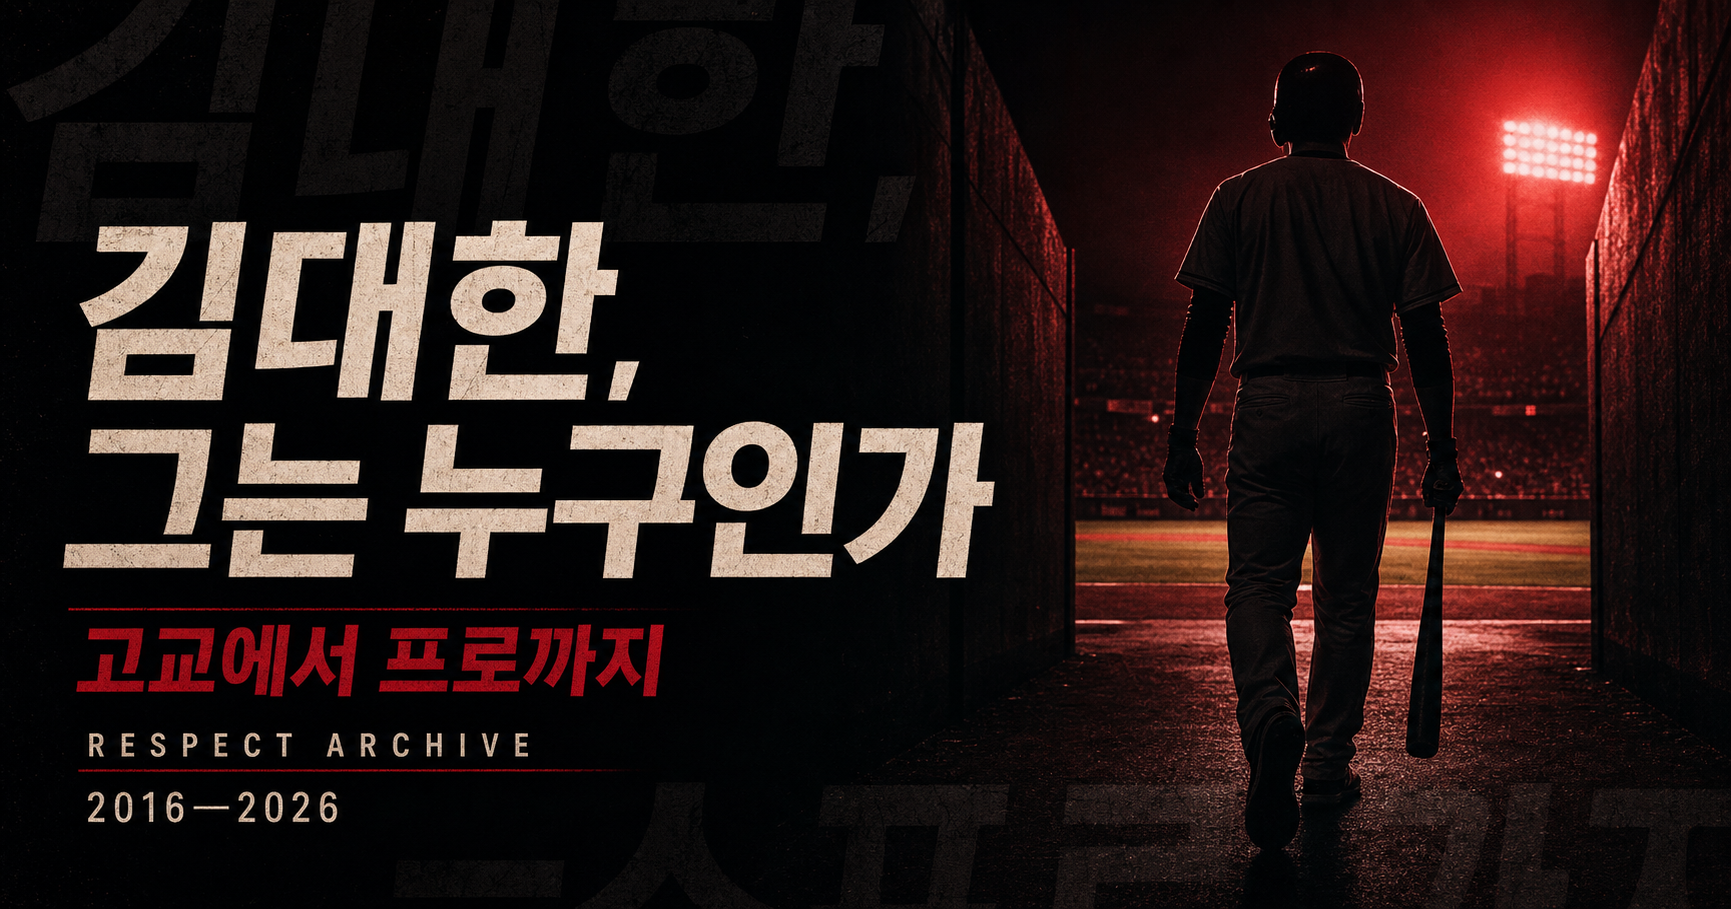
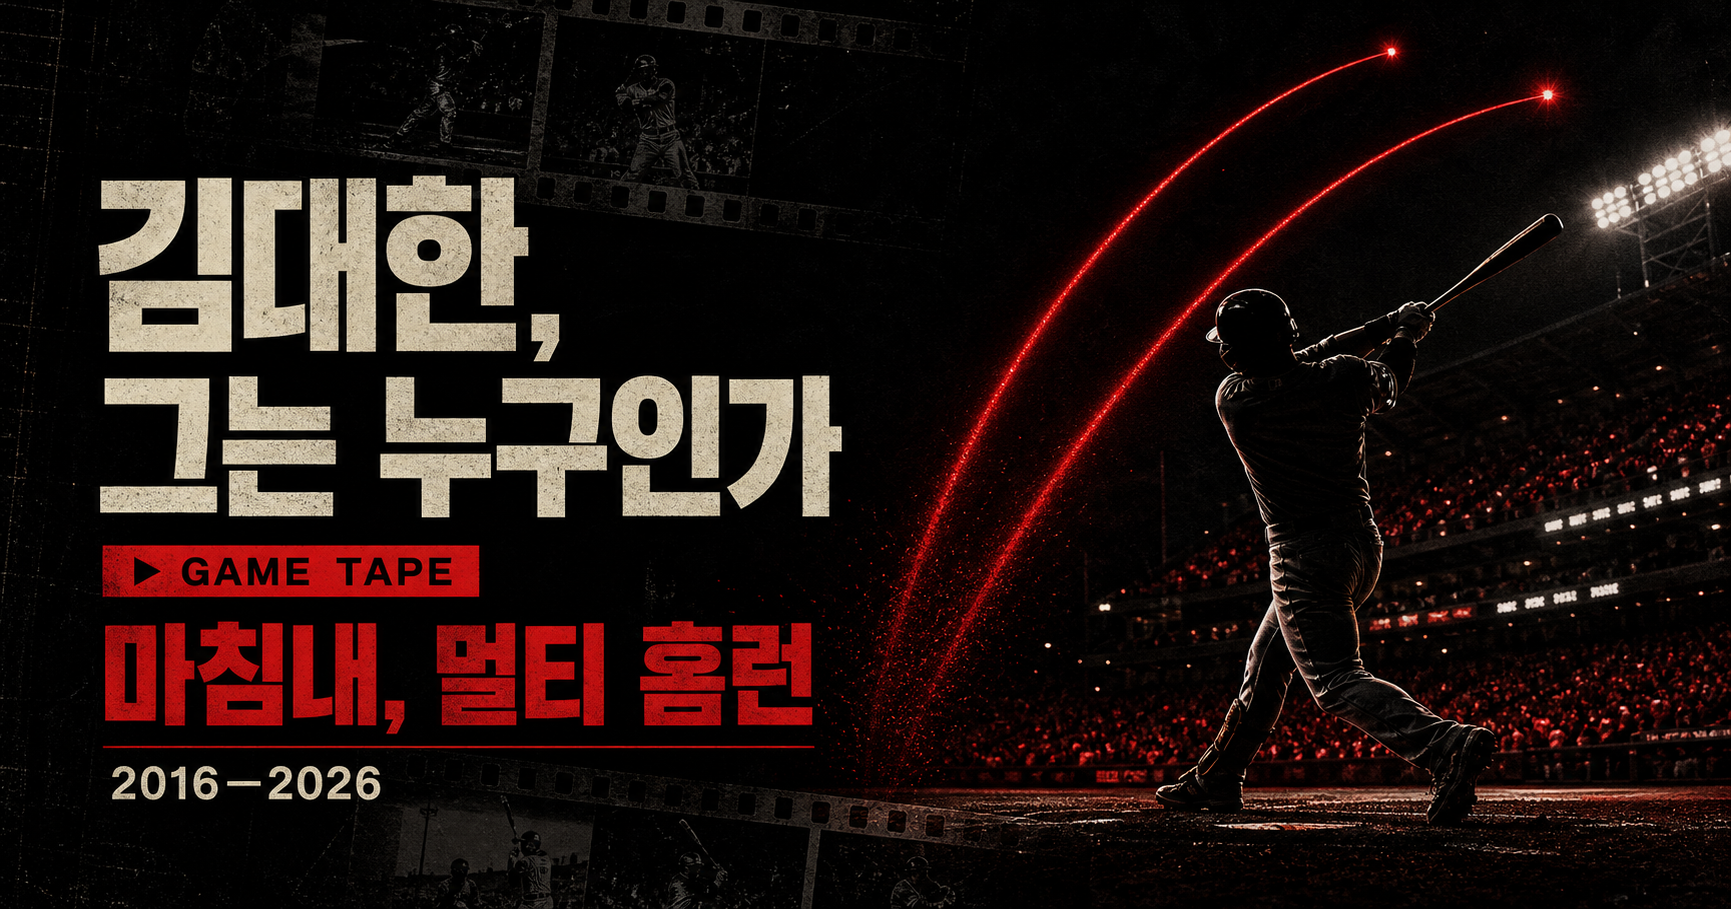
Add notable game tape highlights

diff --git a/app/page.tsx b/app/page.tsx
@@ -1,6 +1,6 @@
 "use client";
 
-import { Fragment, useEffect, useState } from "react";
+import { Fragment, useEffect, useRef, useState } from "react";
 
 const refrain =
   "김대한그는누구인가2000년생으로서울특별시에서태어나고등학교시절1학년부터주전을꿰차며4할6푼대타율로이부분2위에올랐다시즌말까지당시3학년선배김혜성과이영민타격상을두고경쟁을치뤘으나당시타율0.4이승엽이더높았고20타석가량더들어선김혜성에게아쉽게밀렸다1학년따리가3학년그것도후에메이저리그포스팅을선언할진짜재능에게비볐다는소리다더군다나당시출루율장타율OPS는더높을정도로엄청난모습을보였다.2018년에는타율5할OPS1.502를기록하며백인천타격상을수상했다참고로2021년에이상을받은김도영의타율.428OPS1.128보다훨씬높았던것이다거기다조야제약프로야구시상식에서아마추어MVP를받기도했다이활약은청소년대표팀에서도이어졌는데후에홈런왕이되는노시환을제끼고청소년국가대표4번타자를먹었으며슈퍼라운드한일전에는지금까지회자되는쓰리런홈런이자그경기결승타를때려내는데때려낸투수가바로당해고시엔의최고스타요시다코에이였다이에당당히서울1번으로두산베어스1차지명을받았고3억5천만원으로당해최고액을받았는데참고로2024년신인김택연과황준서가3억5천으로똑같은금액을받았다배트스피드는정상급이라는평가를받아김태형에게존나칭찬받았으며당시고교야구를본모두가무조건터질선수이새끼가안터지면안된다라는평가를받았다파워수비어깨주루등등모든부분에서툴이있다는평가를받은파이브툴플레이어라고평가받았다프로에들어와2019년시즌내내안타를때려내지못하고군대행2022년돌아와7월3일KT이채호를상대로데뷔첫안타를때려냈으며물오른타격감을보이며7월12일신민혁을상대로데뷔첫홈런을때려냈다김대한의OPS는두산베어스한시대를빛냈던박건우김재환오재일김재호동나이대와비교해봤을때월등했던수준이었으며시즌마지막경기김태형의마지막경기오XX의은퇴식이있던날솔로홈런을때려내며두산팬들의희망임을입증했다";
@@ -16,6 +16,15 @@ type Story = {
   url: string;
   image: string;
   credit: string;
+};
+
+type NotableGame = {
+  date: string;
+  label: string;
+  title: string;
+  detail: string;
+  videoId: string;
+  source: string;
 };
 
 const amateurStories: Story[] = [
@@ -427,10 +436,104 @@ const proStories: Story[] = [
     image: "https://file.sportsseoul.com/news/cms/2026/01/19/news-p.v1.20260115.883743f236104470baedcab4fcd54722_P1.jpg",
     credit: "사진 스포츠서울",
   },
+  {
+    date: "2026. 07. 31",
+    year: "2026",
+    source: "KBO · BEARS TV",
+    title: "잠실을 두 번 넘긴 밤",
+    kicker: "LG전 · 데뷔 첫 멀티 홈런",
+    summary:
+      "시즌 첫 홈런으로 동점을 만든 뒤, 다시 한 번 거대한 타구를 잠실 외야 너머로 보냈다. 프로 데뷔 후 처음 완성한 한 경기 두 개의 홈런. 오래 기다린 장타 재능이 한밤에 연달아 폭발했다.",
+    quote: "대한의 시간은 지금부터.",
+    url: "https://www.youtube.com/watch?v=-LffBYuiJ4c",
+    image: "https://i.ytimg.com/vi/-LffBYuiJ4c/maxresdefault.jpg",
+    credit: "영상 KBO · 관련 영상 BEARS TV",
+  },
 ];
 
 const stories = [...amateurStories, ...proStories];
 const years = ["2016", "2018", "2019", "2022", "2024", "2026"];
+
+const notableGames: NotableGame[] = [
+  {
+    date: "2022. 07. 12",
+    label: "THE FIRST",
+    title: "첫 홈런부터\n역전 스리런",
+    detail: "NC 신민혁의 초구를 당겨 만든 125m 아치. 프로 첫 홈런이 경기의 흐름을 뒤집었다.",
+    videoId: "i5ptDzfXTbU",
+    source: "베어스 아카이브",
+  },
+  {
+    date: "2023. 06. 06",
+    label: "THE RETURN",
+    title: "재활 끝,\n잠실의 아치",
+    detail: "중수골 골절을 딛고 돌아와 현충일 잠실 하늘에 그린 시즌 첫 홈런.",
+    videoId: "V0Fhi4nUOa0",
+    source: "BEARS TV",
+  },
+  {
+    date: "2024. 06. 19",
+    label: "THE POWER",
+    title: "카스타노를 넘긴\n시즌 첫 홈런",
+    detail: "NC전, 제한된 기회 속에서도 장타의 힘을 다시 보여준 잠실 솔로포.",
+    videoId: "24tCieqYXoQ",
+    source: "YouTube · 신동혁",
+  },
+  {
+    date: "2026. 07. 31",
+    label: "THE BREAKOUT",
+    title: "마침내,\n멀티 홈런",
+    detail: "LG전 시즌 첫 홈런과 초대형 두 번째 아치. 데뷔 후 처음 완성한 멀티 홈런 경기.",
+    videoId: "-LffBYuiJ4c",
+    source: "KBO",
+  },
+];
+
+function GameReel({ game, index }: { game: NotableGame; index: number }) {
+  const sectionRef = useRef<HTMLElement>(null);
+  const [isPlaying, setIsPlaying] = useState(false);
+
+  useEffect(() => {
+    const section = sectionRef.current;
+    if (!section) return;
+    const observer = new IntersectionObserver(
+      ([entry]) => setIsPlaying(entry.isIntersecting && entry.intersectionRatio >= 0.55),
+      { threshold: [0, 0.55, 0.8] },
+    );
+    observer.observe(section);
+    return () => observer.disconnect();
+  }, []);
+
+  return (
+    <section className="game-reel" ref={sectionRef}>
+      <div className="reel-copy">
+        <div className="reel-meta"><span>{game.label}</span><time>{game.date}</time></div>
+        <h3>{game.title.split("\n").map((line) => <Fragment key={line}>{line}<br /></Fragment>)}</h3>
+        <p>{game.detail}</p>
+        <a href={`https://www.youtube.com/watch?v=${game.videoId}`} target="_blank" rel="noreferrer">소리 켜고 보기 ↗</a>
+      </div>
+      <div className="reel-phone">
+        <div className="reel-screen">
+          {isPlaying ? (
+            <iframe
+              src={`https://www.youtube-nocookie.com/embed/${game.videoId}?autoplay=1&mute=1&loop=1&playlist=${game.videoId}&controls=0&rel=0&playsinline=1&modestbranding=1`}
+              title={`${game.date} ${game.title.replace("\n", " ")} 영상`}
+              allow="autoplay; encrypted-media; picture-in-picture"
+              referrerPolicy="strict-origin-when-cross-origin"
+              allowFullScreen
+            />
+          ) : (
+            <img src={`https://i.ytimg.com/vi/${game.videoId}/hqdefault.jpg`} alt="" />
+          )}
+          <div className="reel-gradient" />
+          <span className="muted-badge">MUTED · AUTO PLAY</span>
+          <small>{game.source}</small>
+        </div>
+      </div>
+      <div className="reel-number">{String(index + 1).padStart(2, "0")}</div>
+    </section>
+  );
+}
 
 export default function Home() {
   const [active, setActive] = useState(0);
@@ -529,6 +632,15 @@ export default function Home() {
             </Fragment>
           );
         })}
+      </div>
+
+      <section className="game-intro">
+        <p>SELECTED GAME TAPE</p>
+        <h2>한 경기로<br />증명한 순간들.</h2>
+        <span>화면에 들어오면 영상이 음소거로 자동 재생됩니다.</span>
+      </section>
+      <div className="game-tapes">
+        {notableGames.map((game, index) => <GameReel game={game} index={index} key={game.date} />)}
       </div>
 
       <footer>

diff --git a/app/globals.css b/app/globals.css
@@ -25,7 +25,7 @@ a { color: inherit; text-decoration: none; }
 .masthead nav a:hover { color: var(--red); }
 .archive-label { justify-self: end; font-size: .62rem; letter-spacing: .28em; opacity: .58; }
 
-.hero, .opening-note, .prologue, .story, footer { position: relative; z-index: 4; }
+.hero, .opening-note, .prologue, .story, .game-intro, .game-reel, footer { position: relative; z-index: 4; }
 .hero { min-height: 100svh; padding: 21vh 5vw 8vh; display: flex; flex-direction: column; justify-content: center; background: radial-gradient(circle at 78% 36%, rgba(215,25,32,.14), transparent 26%); }
 .eyebrow { margin: 0 0 2rem; color: var(--red); font-size: .72rem; font-weight: 800; letter-spacing: .28em; }
 .hero h1 { margin: 0; font-size: clamp(4.2rem, 11vw, 11.5rem); line-height: .82; letter-spacing: -.09em; font-weight: 1000; }
@@ -66,6 +66,30 @@ a { color: inherit; text-decoration: none; }
 .story-count { position: absolute; right: 3.5vw; bottom: 3rem; font-size: 1.3rem; font-weight: 900; color: var(--red); }
 .story-count span { color: #777; font-size: .66rem; margin-left: .25rem; }
 
+.game-intro { min-height: 86svh; padding: 14vh 7vw; background: var(--red); color: #080808; display: flex; flex-direction: column; justify-content: center; }
+.game-intro p { margin: 0 0 2rem; font-size: .72rem; font-weight: 1000; letter-spacing: .25em; }
+.game-intro h2 { margin: 0; font-size: clamp(4rem, 11vw, 11rem); line-height: .82; letter-spacing: -.09em; font-weight: 1000; }
+.game-intro span { margin: 3rem 0 0 auto; font-size: .72rem; font-weight: 900; letter-spacing: .08em; }
+.game-tapes { position: relative; z-index: 4; background: #050505; }
+.game-reel { min-height: 112svh; padding: 12vh 8vw; display: grid; grid-template-columns: minmax(0, 1fr) minmax(280px, 34vw); gap: 7vw; align-items: center; border-top: 1px solid rgba(255,255,255,.12); overflow: hidden; }
+.game-reel:nth-child(even) { grid-template-columns: minmax(280px, 34vw) minmax(0, 1fr); }
+.game-reel:nth-child(even) .reel-copy { grid-column: 2; grid-row: 1; }
+.game-reel:nth-child(even) .reel-phone { grid-column: 1; grid-row: 1; }
+.reel-copy { position: relative; z-index: 2; }
+.reel-meta { display: flex; gap: 2rem; margin-bottom: 2.5rem; color: var(--red); font-size: .68rem; font-weight: 1000; letter-spacing: .18em; }
+.reel-meta time { color: #777; }
+.reel-copy h3 { margin: 0; font-size: clamp(3.4rem, 8vw, 8.5rem); line-height: .84; letter-spacing: -.09em; font-weight: 1000; }
+.reel-copy p { max-width: 35rem; margin: 2.5rem 0 0; color: #aaa; font-size: clamp(.95rem, 1.3vw, 1.12rem); line-height: 1.8; word-break: keep-all; }
+.reel-copy a { display: inline-block; margin-top: 2rem; padding-bottom: .35rem; border-bottom: 1px solid var(--red); font-size: .7rem; font-weight: 900; letter-spacing: .1em; }
+.reel-phone { position: relative; width: min(100%, 430px); aspect-ratio: 9 / 16; justify-self: center; padding: 9px; border: 1px solid #333; border-radius: 28px; background: #111; box-shadow: 0 40px 120px rgba(0,0,0,.65); }
+.reel-screen { position: relative; width: 100%; height: 100%; overflow: hidden; border-radius: 20px; background: #090909; }
+.reel-screen iframe, .reel-screen img { position: absolute; inset: 0; width: 100%; height: 100%; border: 0; }
+.reel-screen img { object-fit: cover; filter: grayscale(.35) brightness(.72); }
+.reel-gradient { position: absolute; inset: 0; pointer-events: none; background: linear-gradient(180deg, rgba(0,0,0,.26), transparent 22%, transparent 68%, rgba(0,0,0,.7)); }
+.muted-badge { position: absolute; top: 1rem; left: 1rem; padding: .45rem .6rem; border: 1px solid rgba(255,255,255,.35); border-radius: 999px; background: rgba(0,0,0,.58); font-size: .54rem; font-weight: 900; letter-spacing: .12em; }
+.reel-screen small { position: absolute; left: 1rem; bottom: 1rem; font-size: .58rem; letter-spacing: .1em; }
+.reel-number { position: absolute; right: 2vw; bottom: -3vw; color: #0e0e0e; font-size: 23vw; line-height: .8; font-weight: 1000; letter-spacing: -.08em; pointer-events: none; }
+
 footer { min-height: 90svh; padding: 13vh 6vw 5vh; background: #eae6dd; color: #090909; display: flex; flex-direction: column; justify-content: space-between; }
 .footer-lead { margin: 0; max-width: 1100px; font-size: clamp(3.5rem, 9vw, 9.5rem); line-height: .9; letter-spacing: -.08em; font-weight: 1000; }
 .footer-bottom { display: flex; justify-content: space-between; gap: 2rem; align-items: end; border-top: 1px solid #999; padding-top: 1.5rem; }
@@ -87,6 +111,10 @@ footer { min-height: 90svh; padding: 13vh 6vw 5vh; background: #eae6dd; color: #
   .story-count { right: 5vw; bottom: 2rem; }
   .background-shade { background: linear-gradient(0deg, rgba(3,3,3,.94), rgba(3,3,3,.45) 78%, rgba(3,3,3,.7)); }
   .footer-bottom { flex-direction: column; align-items: start; }
+  .game-reel, .game-reel:nth-child(even) { grid-template-columns: 1fr; gap: 4rem; padding: 10vh 6vw; }
+  .game-reel:nth-child(even) .reel-copy, .game-reel:nth-child(even) .reel-phone { grid-column: 1; grid-row: auto; }
+  .reel-phone { width: min(82vw, 390px); }
+  .game-intro { padding-inline: 6vw; }
 }
 
 @media (prefers-reduced-motion: reduce) {

diff --git a/app/layout.tsx b/app/layout.tsx
@@ -3,7 +3,7 @@ import { headers } from "next/headers";
 import "./globals.css";
 
 const title = "김대한, 그는 누구인가 — RESPECT ARCHIVE";
-const description = "휘문고 1학년 주전부터 청소년대표 4번, 두산 베어스의 오늘까지 이어지는 김대한 기사 아카이브.";
+const description = "휘문고 1학년 주전부터 두산 베어스의 오늘까지, 기사와 주요 경기 영상으로 이어지는 김대한 아카이브.";
 
 export async function generateMetadata(): Promise<Metadata> {
   const requestHeaders = await headers();
